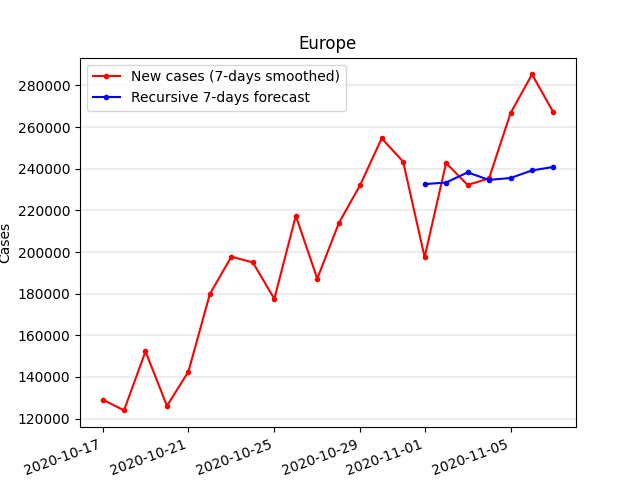
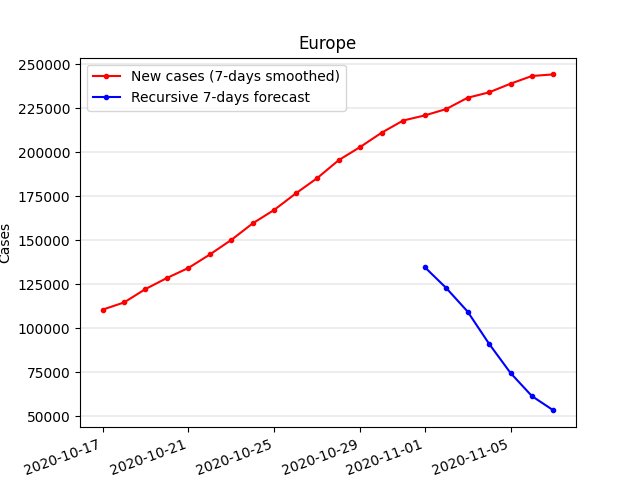
Optimized

diff --git a/lstm/lstm_all_countries.py b/lstm/lstm_all_countries.py
@@ -1,5 +1,5 @@
 from numpy.random import seed
-seed(3)
+seed(5)
 from tensorflow import random as tf_random
 tf_random.set_seed(4)
 
@@ -72,11 +72,10 @@ raw_euro_data = pd.read_csv("../data/euro_countries_filled.csv", index_col=0)
 euro_data = raw_euro_data.copy(deep=True)
 euro_data["date"] = euro_data["date"].apply(date_to_number)
 euro_data = euro_data[euro_data["date"] <= date_to_number(end_date)]
-# euro_data["new_smooth_per_mill"] = euro_data.apply(lambda row: compute_new_smoothed_cases_per_million(row), axis=1)
 
 # Scale chosen features
-forecast_columns = ["date", "latitude", "longitude", "population", "new_cases", "iso_code"]
-scale_columns = ["date", "latitude", "longitude", "population", "new_cases"]
+forecast_columns = ["date", "latitude", "longitude", "population", "new_cases_smoothed", "iso_code"]
+scale_columns = ["date", "latitude", "longitude", "population", "new_cases_smoothed"]
 forecast_data = euro_data[forecast_columns].copy(deep=True)
 scaler = MinMaxScaler(feature_range=(0, 1))
 forecast_data[scale_columns] = scaler.fit_transform(forecast_data[scale_columns])
@@ -92,8 +91,6 @@ def invert_date_scaling(s):
     return number_to_datetime(s * (scaler.data_max_[0] - scaler.data_min_[0]) + scaler.data_min_[0])
 
 
-# All countries have data from 2019-12-31 to 2020-10-27.
-# The first 7 have nan values due to series_to_in_out_pairs()
 # We remove all observations before march.
 # Europe's habits have changed since before march 2020, newer data is more interesting
 # I choose the period from 2020-03-01 to 2020-10-27, that is 241 days
@@ -123,12 +120,12 @@ test_x = test_x.reshape(test_x.shape[0], 1, test_x.shape[1])
 model = Sequential()
 model.add(LSTM(64, input_shape=(train_x.shape[1], train_x.shape[2])))
 model.add(Dense(1))
-model.compile(loss="mse", optimizer="adamax")
+model.compile(loss="mse", optimizer="adam")
 # Fit network
 history = model.fit(
     train_x,
     train_y,
-    epochs=50,
+    epochs=100,
     batch_size=date_to_number(end_date) - date_to_number(start_date) + 1,
     validation_data=(test_x, test_y),
     verbose=2,
@@ -159,14 +156,14 @@ print("\nTest-set 1 step ahead MAE: {:.3f}\n".format(mae))
 
 # Evaluate on aggregated set for all of Europe for first week of november
 euro_mean_data = forecast_data.groupby("date")[["latitude", "longitude"]].mean().reset_index()
-euro_sum_cols = ["population", "new_cases_(t-7)",
-                 "new_cases_(t-6)",
-                 "new_cases_(t-5)",
-                 "new_cases_(t-4)",
-                 "new_cases_(t-3)",
-                 "new_cases_(t-2)",
-                 "new_cases_(t-1)",
-                 "new_cases_(t+0)"]
+euro_sum_cols = ["population", "new_cases_smoothed_(t-7)",
+                 "new_cases_smoothed_(t-6)",
+                 "new_cases_smoothed_(t-5)",
+                 "new_cases_smoothed_(t-4)",
+                 "new_cases_smoothed_(t-3)",
+                 "new_cases_smoothed_(t-2)",
+                 "new_cases_smoothed_(t-1)",
+                 "new_cases_smoothed_(t+0)"]
 euro_sum_data = forecast_data.groupby("date")[euro_sum_cols].sum().reset_index()
 agg_euro_data = pd.concat([euro_mean_data, euro_sum_data], axis=1)
 agg_euro_data = agg_euro_data[["date", "latitude", "longitude"] + euro_sum_cols]
@@ -207,11 +204,11 @@ pred_x = predicted_euro_values[:, 0].reshape(n_pred_steps)
 pred_y = predicted_euro_values[:, n_single_features].reshape(n_pred_steps)
 pred_dates = [number_to_datetime(round(x)) for x in pred_x]
 
-recent_agg = raw_euro_data.groupby("date")["new_cases"].sum().reset_index()
+recent_agg = raw_euro_data.groupby("date")["new_cases_smoothed"].sum().reset_index()
 recent_agg = recent_agg[recent_agg["date"] >= "2020-10-17"]
 recent_agg = recent_agg[recent_agg["date"] <= "2020-11-07"]
 recent_dates = [datetime.fromisoformat(d) for d in recent_agg[["date"]].values.flatten()]
-recent_agg_y = recent_agg[["new_cases"]].values.flatten()
+recent_agg_y = recent_agg[["new_cases_smoothed"]].values.flatten()
 
 plt.clf()
 
@@ -275,7 +272,7 @@ for code in iso_codes:
         recent_history = recent_history[recent_history["date"] >= "2020-10-17"]
         recent_history = recent_history[recent_history["date"] <= "2020-11-07"]
 
-        recent_y = recent_history["new_cases"].values
+        recent_y = recent_history["new_cases_smoothed"].values
 
         country_mae = mean_absolute_error(recent_y[-7:], pred_y)
         print("{:s} 7-days-ahead MAE: {:.2f}".format(code, country_mae))
